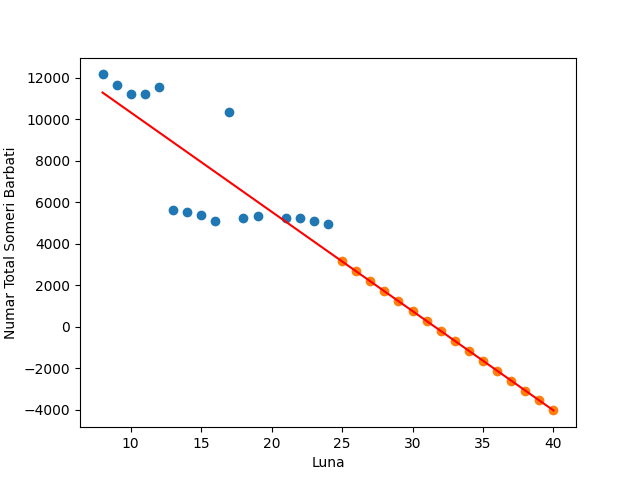
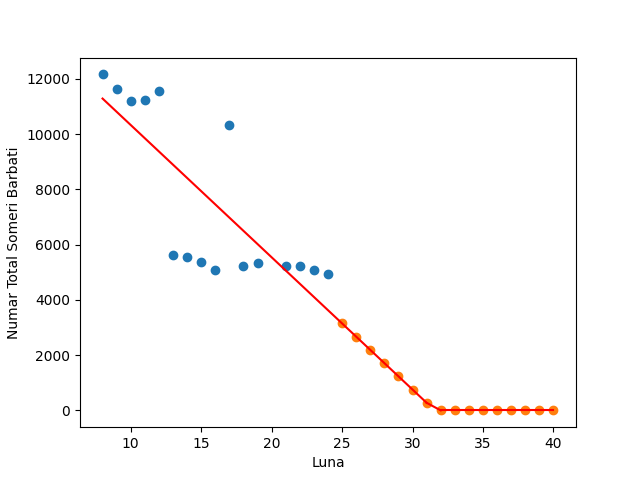
Fixed negative values on plot issue in the PredictionApp

diff --git a/PredictionApp/linear_regression.py b/PredictionApp/linear_regression.py
@@ -70,18 +70,46 @@ class LinearRegression:
         feature_prediction = [];
         label_prediction = [];
         for predicted_points_iterator in range(len(feature)):
-            feature_prediction.append(feature[len(feature) - 1] + predicted_points_iterator + 1);
-            label_prediction.append(w0 + (w1 * feature_prediction[len(feature_prediction) - 1]));
+            xValue = feature[len(feature) - 1] + predicted_points_iterator + 1;
+            yValue = w0 + (w1 * xValue);
+            feature_prediction.append(xValue);
+            label_prediction.append(yValue);
+
+        feature_prediction_not_null_label_points = [];
+        feature_prediction_null_label_points = [];
+        started_null_points = False;
+        for feature_prediction_point in range(len(feature_prediction)):
+            if label_prediction[feature_prediction_point] < 0:
+                label_prediction[feature_prediction_point] = 0;
+                started_null_points = True;
+            
+            if started_null_points == True:
+                feature_prediction_null_label_points.append(feature_prediction[feature_prediction_point]);
+            else:
+                feature_prediction_not_null_label_points.append(feature_prediction[feature_prediction_point]);
+
+        joined_feature = feature;
+        joined_feature.extend(feature_prediction_not_null_label_points);
 
         plt.scatter(feature_prediction, label_prediction);
-
-        feature.extend(feature_prediction);
-        joined_feature = feature;
 
         x0 = joined_feature[0];
         y0 = w0 + (w1 * x0);
         x1 = joined_feature[-1];
         y1 = w0 + (w1 * x1);
         plt.plot([x0, x1], [y0, y1], c = 'r');
+
+        if len(feature_prediction_null_label_points) > 0:
+            x0 = feature_prediction_not_null_label_points[len(feature_prediction_not_null_label_points) - 1];
+            y0 = w0 + (w1 * x0);
+            x1 = feature_prediction_null_label_points[0];
+            y1 = 0;
+            plt.plot([x0, x1], [y0, y1], c = 'r');
+
+            x0 = feature_prediction_null_label_points[0];
+            y0 = 0;
+            x1 = feature_prediction_null_label_points[-1];
+            y1 = 0;
+            plt.plot([x0, x1], [y0, y1], c = 'r');
 
         return plt;
